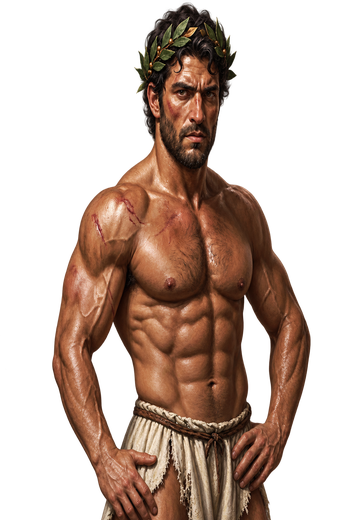
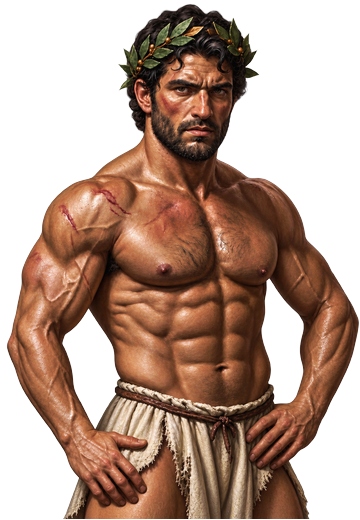
Replace portrait 1 with better-fitting version matching standard canvas format

diff --git a/index.html b/index.html
@@ -1654,7 +1654,7 @@ function renderAttrs(level) {
     </div>`).join('<div style="height:10px"></div>');
 }
 
-const AVATAR_VERSION = 17; // increment whenever a portrait/item image changes, forces a fresh load
+const AVATAR_VERSION = 18; // increment whenever a portrait/item image changes, forces a fresh load
 const PORTRAITS = ['athlete-portrait.png', 'athlete-portrait-2.png', 'athlete-portrait-3.png', 'athlete-portrait-4.png'];
 
 function portraitUrl(entry) {
